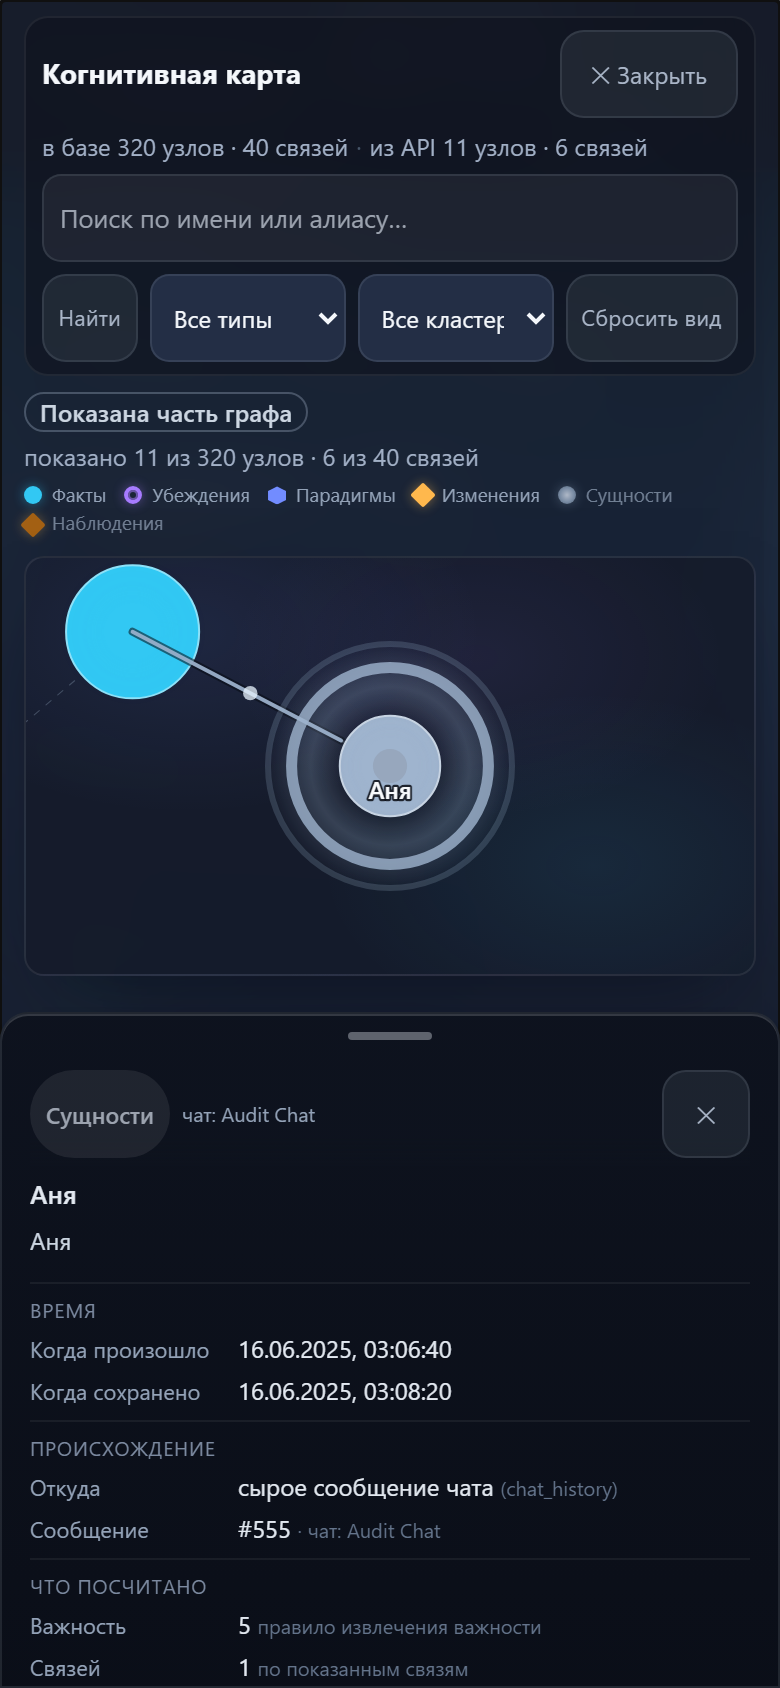
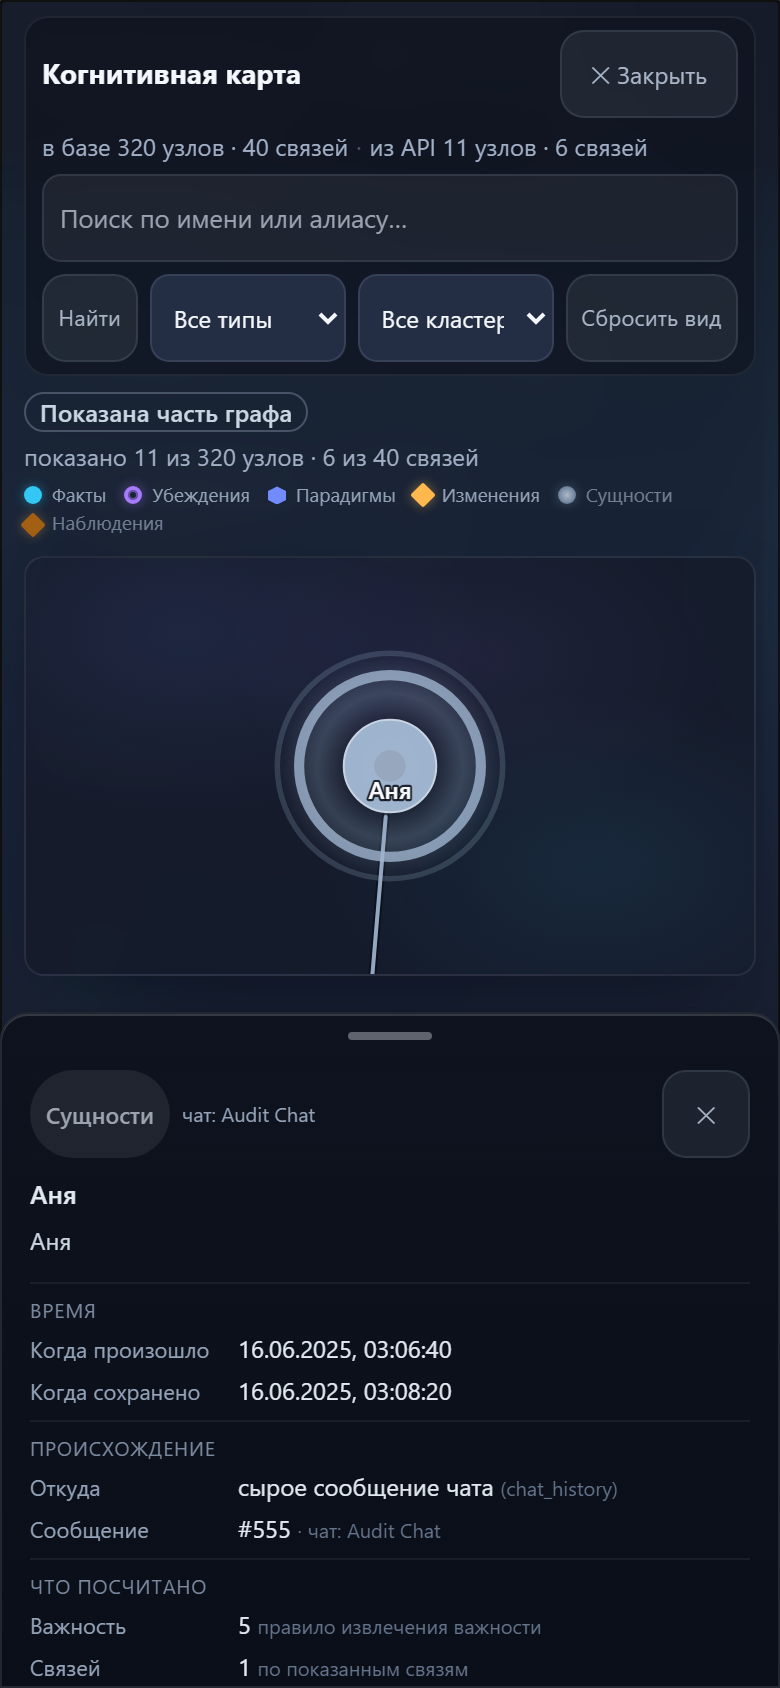
docs(cmv-d): refresh evidence on final source; w15 comparison vs base (no new failures)

Changed region(s): [[0.3077, 0.3697, 0.6769, 0.5853], [0.0615, 0.3081, 0.2769, 0.4313]]

diff --git a/plans/features/epic-cm-visual-01/evidence/cmv-d/report.md b/plans/features/epic-cm-visual-01/evidence/cmv-d/report.md
@@ -10,34 +10,37 @@
 
 - Одна логическая сцена: `#cog-inspector-slot` живёт внутри `status-graph-full`,
   встроенная карта при `graphFullVisible` не рендерится (`v-if`); сеть vis одна
-  (`web/index.html:14755`; стенд: `.vis-network == 1`, `.cognition-graph == 1`).
+  (`web/index.html:14751`; стенд: `.vis-network == 1`, `.cognition-graph == 1`).
 - Панель 56–64 px строго по порядку «название → счётчики → поиск → фильтры →
-  Сбросить вид → Закрыть»: `web/index.html:14638`, стили `web/static/app.css:2170`.
-- Тело — CSS-grid `minmax(0,1fr) auto` (`web/static/app.css:2182`); колонка
-  инспектора `clamp(300px,26vw,360px)` при выборе (`:2189`). Сцена сужается
+  Сбросить вид → Закрыть»: `web/index.html:14635`, стили `web/static/app.css:2168`.
+- Тело — CSS-grid `minmax(0,1fr) auto` (`web/static/app.css:2180`); колонка
+  инспектора `clamp(300px,26vw,360px)` при выборе (`:2215`). Сцена сужается
   (стенд: `canvas.right <= slot.x`), панель не перекрывает сцену.
-- Без выбора колонка места не занимает (`:2173`, на телефоне `:2186`); камера при
+- Без выбора колонка места не занимает (`:2191`, на телефоне `:2204`); камера при
   открытии/закрытии инспектора не сбрасывается (стенд сверяет `pos`).
 - `Esc`/Back закрывают РОВНО один уровень и возвращают фокус на «Полный экран»:
   `web/app.js:32916` (`_cogReturnFocusToFullBtn` проверяет фактический
   `document.activeElement`, ограниченный повтор), вызовы в `closeGraphFull`.
 - Встроенная сцена 420 px (цель §2.1), телефон `clamp(340px,46dvh,420px)`,
   `touch-action:none`: `web/static/app.css:1584`, `1605`.
+- Сцена получает явный размер при смене контейнера (`web/app.js:30778`,
+  `net.setSize`): vis следит только за `window.resize`, иначе при
+  embedded↔fullscreen битмап оставался старым и граф выглядел пустым.
 
 ## 2. Инспектор — в потоке, а не поверх сцены (§8.1–§8.2, CMV-VIS-07/09)
 
 - ОДИН слой карточки переезжает в слот своего режима телепортом контракта §9.1:
-  `web/index.html:14775` (`<teleport v-if="cogCard" :to="cogCardSlot">`); выбор
+  `web/index.html:14771` (`<teleport v-if="cogCard" :to="cogCardSlot">`); выбор
   слота — `web/app.js:8922`, классы места показа — `web/app.js:8928`.
   `id="cog-card"` в документе ровно один, второй логики нет.
 - Встроенная карта: компактная панель ПОД сценой (`position: static`,
-  `web/static/app.css:1871`), раскрывается кнопкой «Подробнее», свой scroll.
-- Соседи кликабельны, у каждого «Перейти»: `web/index.html:14915`,
+  `web/static/app.css:1869`), раскрывается кнопкой «Подробнее», свой scroll.
+- Соседи кликабельны, у каждого «Перейти»: `web/index.html:14911`,
   `web/app.js:32232` (`cogFocusNeighbor`) плавно переводит камеру (`net.focus`,
   масштаб от `fitScale`), обновляет выбор, подсветку и карточку.
 - «Открыть в Памяти» сохранено; действия данных активны только при доступности,
   иначе видна причина (`data-cog-action-reason`). Добавлено отсутствовавшее
-  действие §8.1(6) «Снять выбор» — `web/index.html:14946`, `web/app.js:32367`
+  действие §8.1(6) «Снять выбор» — `web/index.html:14942`, `web/app.js:32367`
   (снимает выбор/подсветку/детали и закрывает карточку, камеру не трогает).
 - Подпись выбранного объекта читается полностью: стенд сверяет текст заголовка
   карточки с моделью и отсутствие обрезки (`scrollWidth == clientWidth`).
@@ -45,12 +48,12 @@
 ## 3. Мобильный режим (§3.2, §12.3)
 
 - Нижний лист 40dvh → 80dvh, свайп по ручке, страница не двигается:
-  `web/static/app.css:1811`, `web/index.html:14789`, жесты `web/app.js:32219`.
-- Лист читается: плотный стеклянный фон (`web/static/app.css:1819`), узлы не
+  `web/static/app.css:1809`, `web/index.html:14785`, жесты `web/app.js:32216`.
+- Лист читается: плотный стеклянный фон (`web/static/app.css:1817`), узлы не
   просвечивают сквозь текст; место сцены уменьшается на высоту листа
-  (`web/static/app.css:2212`), поэтому в полосе над ним есть РЕАЛЬНЫЕ узлы —
+  (`web/static/app.css:2210`), поэтому в полосе над ним есть РЕАЛЬНЫЕ узлы —
   стенд считает их по камере vis на 390 и 360.
-- Тач-цели ≥44 px: `web/static/app.css:1852–1852`; стенд измеряет фактические
+- Тач-цели ≥44 px: `web/static/app.css:1860–1868`; стенд измеряет фактические
   rect'ы (7–9 целей, нарушений нет) на 390 и 360.
 - Пинч двумя пальцами и панорама одним: РЕАЛЬНЫЕ касания через CDP
   (`Input.dispatchTouchEvent`) — масштаб и камера меняются, горизонтального
@@ -62,14 +65,15 @@
 
 ## 4. Счётчики и честные состояния (§9.9, §11)
 
-- Четыре величины не смешиваются: `cogCounterParts` (`web/app.js:8768`) —
+- Четыре величины не смешиваются: `cogCounterParts` (`web/app.js:8770`) —
   «в базе» (только если сервер прислал итог), «из API», «в фильтре»
   (существующая строка), «на экране» (поштучно + свёрнутые в районы). Источник —
-  `_cogCounts` (`web/app.js:31336`), публикация — `_cogRefreshCounts` (`:31342`),
+  `_cogCounts` (`web/app.js:31336`), публикация — `_cogRefreshCounts` (`:31351`),
   разметка частей — `web/index.html:13137`.
 - `truncated` помечен «Показана часть графа» и объяснён по hover/фокусу:
-  `web/app.js:8832`, `web/index.html:13143`, `:14677`; «всего N» к выдаче API не
-  применяется.
+  `web/app.js:8832`, `web/index.html:13143`, `:14684`; плашка переносится по
+  словам и не выходит за вьюпорт при 320 px / 200 % (`web/static/app.css:1709`).
+  Формулировка «всего N» к выдаче API не применяется.
 - Пусто: `data-cog-state="empty"` + «Открыть в Памяти», без зависшей анимации.
   Один узел: карточка без ложных соседей («связей не записано»).
 - Ошибка API: сообщение словами + «Повторить» (`cogLoadErrorLabel`,
@@ -84,10 +88,11 @@
 ## 5. Строка 4 шапки — подсказка жестов (CMV-HDR-04)
 
 Компактная подсказка «Колесо/щипок — масштаб · Перетаскивание — перемещение ·
-Нажатие — связи» показывается один раз при входе (`web/index.html:13256`,
-стиль `web/static/app.css:1720`), после первого действия с картой уходит
+Нажатие — связи» показывается один раз при входе (`web/index.html:13255`,
+стиль `web/static/app.css:1728`), после первого действия с картой уходит
 (`_cogHintDone`, `web/app.js:32188`), а тот же текст остаётся доступной
-подсказкой сцены (`title` + `aria-describedby` на визуально скрытую копию).
+подсказкой сцены (`title` + полный текст в `aria-label`, без лишнего визуально
+скрытого узла).
 
 ## 6. Побочная находка ревью CMV-C — имя кластера
 
@@ -109,7 +114,16 @@ labels, не aggregates) — коммит `53d25635`.
 - Живой стенд `tools/ui_cmv_d_fullscreen_e2e.py`: **236/236**,
   1536×960, 1366×768, 768×1024, 390×844, 360×780; ошибок консоли нет; sha256
   отданного и локального `app.js` совпадают. Отчёт: `cmv-d-fullscreen.json`.
-- Мутации: `mutations.py` — **18 мутаций, MUTATION-HOLES=0**.
+- Мутации: `mutations.py` — **18 мутаций, MUTATION-HOLES=0** (каждая краснит
+  целевой тест: раскладка заглушек, счётчики, усечение, место инспектора,
+  колонка/лист, телепорт, «Перейти», жесты, чат, поздний ответ, фокус,
+  «Снять выбор», имя кластера, отказ загрузки).
+- Смежный сюит `tools/ui_evol_w15_composition_e2e.py` (весь экран, 27
+  состояний): падения сравнивались с базой `dfba4080` прогоном того же сюита в
+  чистом worktree — **новых падений нет**, у базы 4 падения, у этой ветки 3:
+  те же предсуществующие `sr-only` на страницах «Промптов»
+  (`prompts-editor/sub@390/1280`). Баговое `cog-map@390: после фильтра подписи
+  пропали` на этой ветке проходит.
 
 ### Кадры (реальные кадры стенда)
 
@@ -120,7 +134,15 @@ labels, не aggregates) — коммит `53d25635`.
 `cmv-d-counters-filter-1280.png`, `cmv-d-state-error-1280.png`,
 `cmv-d-state-empty-1280.png`.
 
-## 8. Что осталось за пределами CMV-D (для CMV-E)
+## 8. Замечания без блокировки
+
+- На 360 px в полном экране нативный селектор «Все кластеры» показывает
+  «Все клас…» (строка фильтров ужимается, чтобы «Сбросить вид» не обрезался).
+  На обязательном 390 подпись полная; 360 — дополнительный вьюпорт.
+- «Сбросить вид» снимает выбор, поэтому закрывает и карточку (иначе открытый
+  инспектор показывал бы уже не выбранную запись).
+
+## 9. Что осталось за пределами CMV-D (для CMV-E)
 
 - FPS-бюджет `CMV-FPS-MARGIN` (медиана 45.9 при пороге 45): повторный замер тем
   же стендом `tools/ui_cmv_b_scene_fps.py` после D и финальные p50/p95/p99 на
@@ -130,7 +152,7 @@ labels, не aggregates) — коммит `53d25635`.
   обработчиков — CMV-E.
 - `CMV-GATE-01..21` (гейт §13) закрываются сводным прогоном CMV-E.
 
-## 9. Замечание о границе скоупа
+## 10. Замечание о границе скоупа
 
 Пункт про имя кластера физически находится в `web/static/cognitive-map.js` —
 единственном месте, где живёт `computeClusters`. Правка сделана ровно в этом
